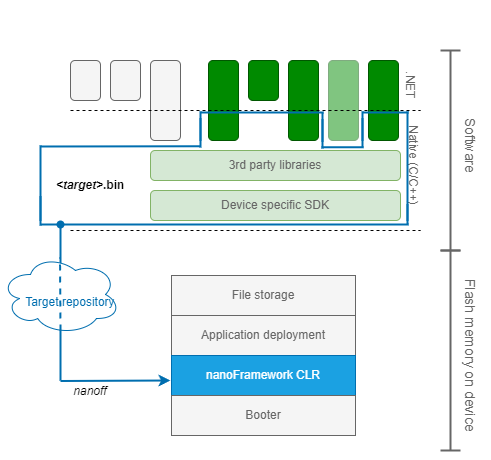
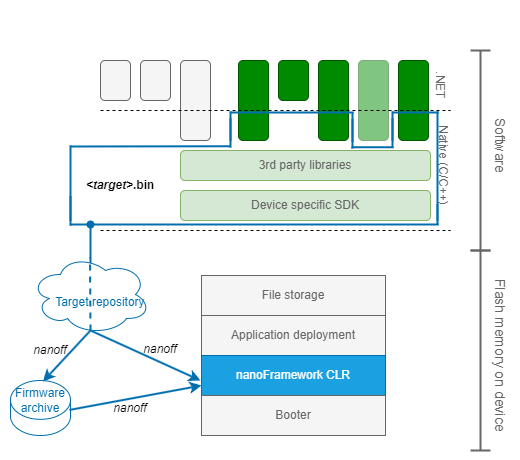
Firmware archive and runtime for nanoclr.exe added

diff --git a/content/getting-started-guides/getting-started-versioning.md b/content/getting-started-guides/getting-started-versioning.md
@@ -59,6 +59,12 @@ If you are not sure which devices you will be using, collect all packages for a 
 ```
 <repository>\nanoFramework\Tools\nanoff --platform ESP32 --updatefwarchive --fwarchivepath <repository>\nanoFramework\Firmware
 ```
+If you expect the framework version not to be updated for a long time (e.g. in case your product has a long lifetime and software development is paused for most of the time), also keep a separate instance of the runtime of the *nanoclr.exe* tool, *WIN_DLL_nanoCLR*:
+```
+<repository>\nanoFramework\Tools\nanoff --target WIN_DLL_nanoCLR --updatefwarchive --fwarchivepath <repository>\nanoFramework\Firmware
+```
+If in future the *nanoclr.exe* tool has to be updated, e.g., because of dependencies on third-party software, this Virtual Device runtime that matches your application is still available.
+
 From now on, if you want to ready a device for use in the projects, use the extra *fwarchive*-options to use the local copy of the firmware packages rather than the ones from the online repository, e.g.:
 ```
 <repository>\nanoFramework\Tools\nanoff --suppressnanoffversioncheck --listtargets --serialport COM3 --update --fromfwarchive --fwarchivepath <repository>\nanoFramework\Firmware
@@ -138,12 +144,14 @@ The MSBuild task starts by reading the `nano.devices.json` file in the project d
 {
     "GlobalSettingsDirectoryPath": "relative path to <repository>\nanoFramework",
     "PathToLocalNanoCLR": "Tools/nanoclr.exe",
-    "PathToLocalCLRInstance": "Tools/nanoclr.bin",
+    "PathToLocalCLRInstanceDirectory": "Firmware/WIN_DLL_nanoCLR-1.12.0.53",
     "VirtualDeviceSerialPort": "COM30",
+    "ReservedSerialPorts": ["COM30", "COM31", "COM32", "COM33"],
     "FirmwareArchivePath": "Firmware",
     "DeviceTypeTargets": {
         "Primary device": "ESP32_S3_ALL",
-        "Alternative": "ESP32_S3_BLE"
+        "Alternative": "ESP32_S3_BLE",
+        "Test devices": ["ESP32_S3", "ESP32_S3_ALL", "ESP32_S3_BLE"]
     },
     "DeviceTypes": {
         "Primary device",
@@ -158,9 +166,12 @@ with:
 
 - `GlobalSettingsDirectoryPath` is the path to the directory containing another `nano.devices.json` file. That file is read first, then the content of this file is used to overwrite the settings per top-level element that is present (*PathToLocalNanoCLR*, *DeviceTypeTargets*, etc.)
 - `PathToLocalNanoCLR` is the path to the `nanoclr.exe` file that is used to run the Virtual Device. If it is not present, the global tool is used.
-- `PathToLocalCLRInstance` is the path to a file that implements an alternative Virtual Device runtime.
-- `VirtualDeviceSerialPort` is the serial port to use for a Virtual nanoDevice where applications can be deployed to.
+- `PathToLocalCLRInstanceDirectory` is the path to a directory that contains a file `nanoFramework.nanoCLR.dll`. The latter implements an alternative Virtual Device runtime. If this is not present, the runtime embedded in `nanoclr.exe` is used.
+- `VirtualDeviceSerialPort` is the serial port to use for a Virtual nanoDevice where applications can be deployed to. The default is "COM30". This setting is used by the Device Explorer of the Visual Studio extension and only has effect if it is present in a `nano.devices.json` in the solution directory or in one of the `nano.devices.json` included by that file.
+- `ReservedSerialPorts` is an array of serial ports reserved for use by, e.g., a Virtual nanoDevice. This setting is used by the Device Explorer of the Visual Studio extension; these ports are excluded from the device discovery unless one of the ports is specified as as value for *VirtualDeviceSerialPort*. This allows to have two versions of the framework within a repository, each with its own Virtual nanoDevice running on a dedicated serial port. The setting only has effect if it is present in a `nano.devices.json` in the solution directory or in one of the `nano.devices.json` included by that file.
 - `FirmwareArchivePath` is the path to the firmware archive; this is the same path as used in the `--fwarchivepath` argument to *nanoff*.
-- `DeviceTypeTargets` is a list of named device types, and per name the name of the runtime/target to use. The name cannot be *Virtual nanoDevice*.
-- `DeviceTypes` is a list of device types the project is designed to be deployed to. The name *Virtual nanoDevice* refers the the Virtual Device (nanoclr.exe), all other names must have been defined in *DeviceTypeTargets*.
-- `Platforms`is a list of platforms the project is designed to be deployed to. This is shorthand to select all named devices in *DeviceTypeTargets* that match the specified platform.
+- `DeviceTypeTargets` is a list of named device types, and per name the name of the runtime/target to use. The name cannot be *Virtual nanoDevice*. The target can be a single name or an array. If this element is present in a global and local `nano.devices.json`, the targets per name are overwritten rather than the *DeviceTypeTargets* list.
+- `DeviceTypes` is a list of device types the project is designed to be deployed to. The name *Virtual nanoDevice* refers the the Virtual Device (nanoclr.exe), all other names must have been defined in *DeviceTypeTargets*. 
+- `Platforms` is a list of platforms the project is designed to be deployed to. This is shorthand to select all named devices in *DeviceTypeTargets* that match the specified platform.
+
+If the `%USERPROFILE%\.nanoFramework\nano.devices.json` file exists it is always read first, and only the `ReservedSerialPorts` setting is used. This file can be used to exclude other (machine dependent) serial ports that should not be touched by the .NET **nanoFramework** tools.

diff --git a/content/architecture/deployment.md b/content/architecture/deployment.md
@@ -30,9 +30,9 @@ The native implementation of the .NET **nanoFramework** components are not packa
 
 For each device there are one or more of such packages. The selection of the components depends on the capabilities of a device. E.g., the native component of the nanoFramework.Device.Can component is omitted if the device does not have hardware support for a Can bus. The nanoFramework.Device.Bluetooth is only included for devices that have a sufficient amount of flash memory.
 
-If your application does not have a native component, you'll use one of the pre-packaged runtimes/targets. There are both [reference](../reference-targets) and [community](../community-targets) targets. The targets are made available from an [online repository](https://cloudsmith.io/~net-nanoframework/repos/nanoframework-images/packages/) and should be deployed to the device using the [nanoff](https://github.com/nanoframework/nanoFirmwareFlasher) tool. The *nanoff* tool also makes sure that an appropriate booter is present.
+If your application does not have a native component, you'll use one of the pre-packaged runtimes/targets. There are both [reference](../reference-targets) and [community](../community-targets) targets. The targets are made available from an [online repository](https://cloudsmith.io/~net-nanoframework/repos/nanoframework-images/packages/) and should be deployed to the device using the [nanoff](https://github.com/nanoframework/nanoFirmwareFlasher) tool. By default *nanoff* uses the online repository as a source, but it also possible to use a NuGet-style package management where a fixed version of the firmware is stored in an archive and deployments by *nanoff* use the archive as source (see also the [getting started guide](../getting-started-guides/getting-started-versioning.md)).
 
-Apart from the *.bin* file that is deployed to the device, the package containing the runtime may also contains additional (device dependent) information that is used in the deployment process. Such as the partition of the flash memory in sections for the runtime, managed code and additional files.
+Apart from the *.bin* file that is deployed to the device, the package containing the runtime may also contains additional (device dependent) information that is used in the deployment process. Such as the partition of the flash memory in sections for the runtime, managed code and additional files. The *nanoff* tool also makes sure that an appropriate booter is present.
 
 ## Native application component or custom runtime
 
